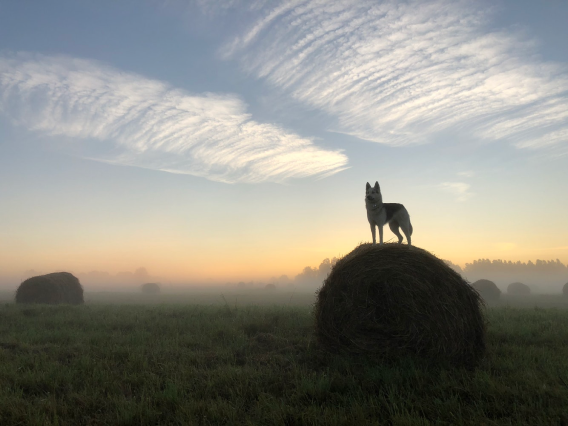
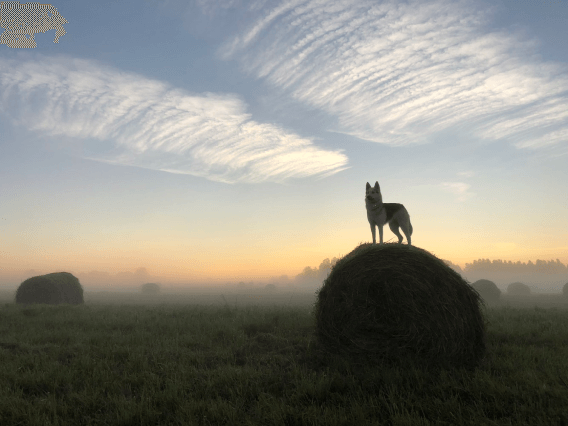
images compressed and readme added

Changed region(s): [[0.0, 0.0, 0.1197, 0.1221]]

diff --git a/README.md b/README.md
@@ -1,23 +1,12 @@
 # Проект: Путешествие по России
 
 ### Обзор
-* Интро
-* Figma
-* Картинки
 
-**Интро**
+Адаптивный сайт про путешествия по России, инетесных местах в самых дальних уголках нашей необъятной родины.
 
-Здесь будет проект о путешествии по России.
-В Фигме мы разместили макет, в котором видно, как проект должен выглядеть на самых распространённых разрешениях экранов.
-Этот проект сложнее предыдущих, постарайтесь уделить ему больше времени.
+**Технологии**
 
-**Figma**
+Проект выполнен по методологии БЭМ с организацией файловой структуры nested, при посотроении секций использованы гриды и флекс.
 
+* [Github Pages](https://tka4enkokv.github.io/russian-travel/#)
 * [Ссылка на макет в Figma](https://www.figma.com/file/5S2WSbEFL6awjVWJ0NWL8Q/Sprint-3_-Russia-_-desktop-mobile?node-id=28503%3A0)
-
-**Картинки**
-
-Доставать картинки предстоит из Фигмы. Это расхожая практика, поэтому полезно потренироваться.
-Не забудьте [оптимизировать картинки](https://tinypng.com/), чтобы ваш сайт загружался быстрее.
-
-Удачи!
